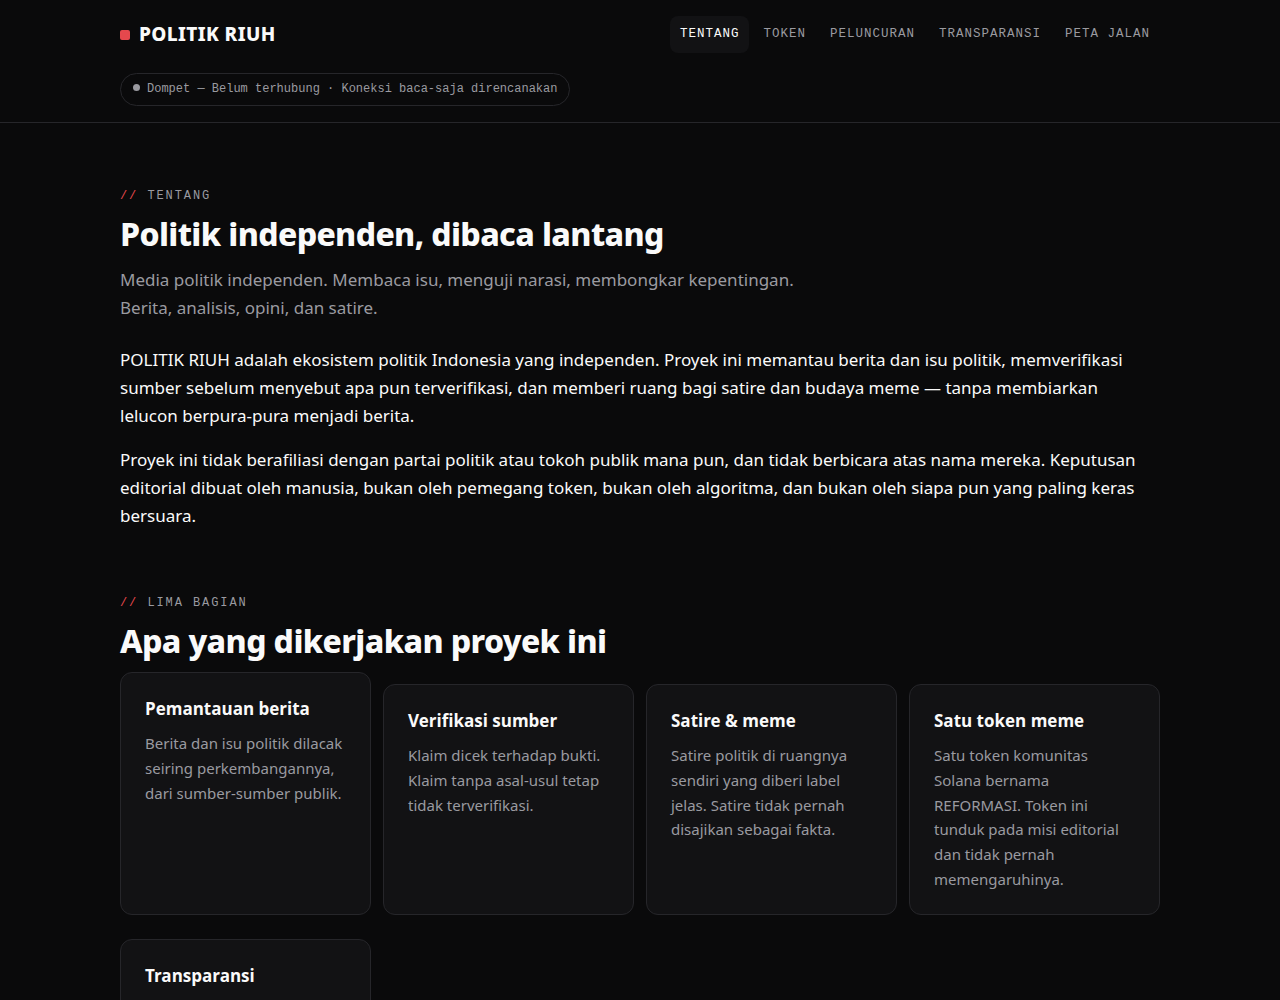
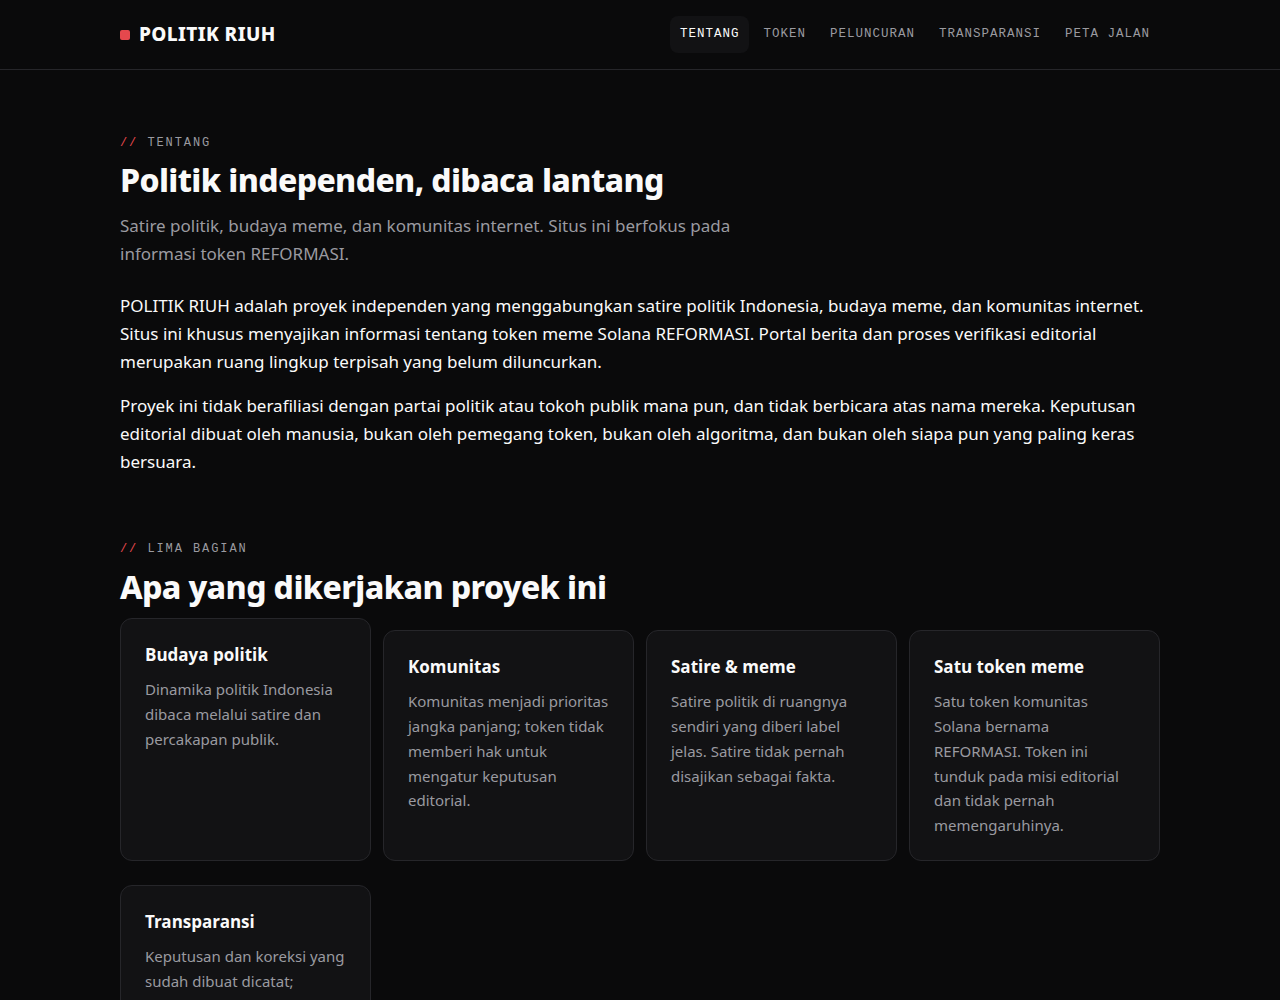
fix(token-site): harden test harness against false passes + fresh evidence (PR-013)
- checks.sh: dynamic free port, readiness polling (15s timeout),
  spawned-server PID verified to own the listener via ss, per-route
  expected-content assertions (not HTTP 200 alone); negative regressions
  for .wallet-status, founder name, 0,02 SOL estimate, present-tense
  newsroom claims, and Gate 01 scope; contrast labelled five-pair
  palette spot-check, not a full WCAG audit
- screenshots.sh: dynamic port + listener verification, old target
  deleted before capture, Chrome exit code required 0, fresh non-empty
  file + PNG dimensions validated; mobile screenshots for all six routes
- nav-toggle-test.py: dynamic HTTP + CDP ports, listener verification,
  unique Chrome profile per run; fix ws frame-coalescing bug that
  discarded an already-arrived CDP response and hung until timeout
- evidence: 12 fresh screenshots (6 desktop + 6 mobile), 3 run logs,
  SHA256SUMS.txt sidecar; README tables + backlog PR-013 row updated
  (still IN REVIEW - NOT ACCEPTED, awaiting ChatGPT re-review)
- NOTE: non-deploy PR workflow .github/workflows/token-site-pr.yml is
  prepared in a separate local commit; its push is BLOCKED because the
  GitHub OAuth token lacks the 'workflow' scope (see that commit)

Evidence (2026-11-09, local): bash checks.sh exit 0; python3
nav-toggle-test.py exit 0 (3/3 runs); bash screenshots.sh exit 0 (12/12)

diff --git a/apps/token-site/nav-toggle-test.py b/apps/token-site/nav-toggle-test.py
@@ -1,23 +1,42 @@
 #!/usr/bin/env python3
 """Minimal CDP nav-toggle test for the token site (stdlib only, no deps).
-Starts a local server + headless Chrome, clicks the mobile nav toggle via
-Runtime.evaluate, and prints NAV-OPEN / ARIA / LABEL. Exit 0 on pass.
-Usage: python3 nav-toggle-test.py [url]  (default http://127.0.0.1:8000/index.html)
+Starts a local server + headless Chrome on dynamically allocated free ports,
+verifies the spawned server owns its listener and serves the expected page,
+clicks the mobile nav toggle via Runtime.evaluate, and prints NAV-OPEN /
+ARIA / LABEL. Exit 0 on pass.
+Usage: python3 nav-toggle-test.py [url]  (default http://127.0.0.1:<free-port>/index.html)
 """
-import base64, hashlib, json, os, socket, struct, subprocess, sys, time, urllib.request
+import base64, hashlib, json, os, re, shutil, socket, struct, subprocess, sys, tempfile, time, urllib.request
 
-URL = sys.argv[1] if len(sys.argv) > 1 else "http://127.0.0.1:8000/index.html"
+def free_port():
+    s = socket.socket(); s.bind(("127.0.0.1", 0))
+    port = s.getsockname()[1]; s.close(); return port
+
+def listener_pid(port):
+    """PID owning the 127.0.0.1:port listener, via `ss` (None if unavailable)."""
+    try:
+        out = subprocess.run(["ss", "-ltnpH", f"sport = :{port}"],
+                             capture_output=True, text=True, timeout=10).stdout
+    except Exception:
+        return None
+    m = re.search(r"pid=(\d+)", out)
+    return int(m.group(1)) if m else None
+
 CHROME = os.environ.get("CHROME", os.path.expanduser("~/chrome-extract/opt/google/chrome/chrome"))
-PORT = 9222
+HTTP_PORT = free_port()
+CDP_PORT = free_port()
+URL = sys.argv[1] if len(sys.argv) > 1 else f"http://127.0.0.1:{HTTP_PORT}/index.html"
+
+_WS_LEFTOVER = {}
 
 def ws_connect(ws_url):
-    # ws://127.0.0.1:9222/devtools/page/<id>
+    # ws://127.0.0.1:<cdp-port>/devtools/page/<id>
     assert ws_url.startswith("ws://")
     rest = ws_url[5:]
     hostport, path = rest.split("/", 1)
     host, port = hostport.split(":")
     key = base64.b64encode(os.urandom(16)).decode()
-    s = socket.create_connection((host, int(port)), timeout=10)
+    s = socket.create_connection((host, int(port)), timeout=30)
     req = (f"GET /{path} HTTP/1.1\r\nHost: {hostport}\r\nUpgrade: websocket\r\n"
            f"Connection: Upgrade\r\nSec-WebSocket-Key: {key}\r\nSec-WebSocket-Version: 13\r\n\r\n")
     s.sendall(req.encode())
@@ -25,6 +44,10 @@ def ws_connect(ws_url):
     while b"\r\n\r\n" not in buf:
         buf += s.recv(4096)
     assert b"101" in buf.split(b"\r\n")[0], buf[:200]
+    # Keep any bytes already received past the HTTP headers: the first
+    # WebSocket frame may arrive coalesced with the handshake response,
+    # and dropping it would hang the first CDP call until socket timeout.
+    _WS_LEFTOVER[id(s)] = buf.split(b"\r\n\r\n", 1)[1]
     return s
 
 def ws_send(s, text):
@@ -43,7 +66,7 @@ def ws_send(s, text):
     s.sendall(bytes(header) + masked)
 
 def ws_recv_msg(s):
-    data = b""
+    data = _WS_LEFTOVER.pop(id(s), b"")
     while True:
         # read 2-byte header
         while len(data) < 2:
@@ -65,7 +88,13 @@ def ws_recv_msg(s):
             s.sendall(bytes([0x8A, 0x80]) + os.urandom(4))
             continue
         if op == 1:
+            # Preserve any trailing bytes: Chrome may coalesce several
+            # frames into one TCP segment, and the next message is already
+            # in `data`. Dropping it would hang the next recv until timeout.
+            _WS_LEFTOVER[id(s)] = data
             return payload.decode()
+        if op == 8:
+            raise ConnectionError("ws closed by peer")
         if op == 0:
             continue
 
@@ -77,16 +106,37 @@ def cdp(s, mid, method, params=None):
             if "error" in msg: raise RuntimeError(msg["error"])
             return msg.get("result", {})
 
-server = subprocess.Popen([sys.executable, "-m", "http.server", "8000", "--bind", "127.0.0.1"],
+server = subprocess.Popen([sys.executable, "-m", "http.server", str(HTTP_PORT), "--bind", "127.0.0.1"],
                           cwd=os.getcwd(), stdout=subprocess.DEVNULL, stderr=subprocess.DEVNULL)
+# Unique profile dir per run: a stale/shared default profile can make a
+# second Chrome instance attach to (or block on) another process.
+PROFILE_DIR = tempfile.mkdtemp(prefix="token-site-chrome-")
 chrome = subprocess.Popen([CHROME, "--headless=new", "--disable-gpu", "--no-sandbox",
-                           f"--remote-debugging-port={PORT}", "--window-size=390,844", URL],
+                           f"--user-data-dir={PROFILE_DIR}",
+                           f"--remote-debugging-port={CDP_PORT}", "--window-size=390,844", URL],
                           stdout=subprocess.DEVNULL, stderr=subprocess.DEVNULL)
 try:
+    # Readiness polling with timeout (15 s) + content check: the server must
+    # answer with OUR page, not just any HTTP 200 on a colliding port.
+    ready = False
+    for _ in range(30):
+        try:
+            with urllib.request.urlopen(f"http://127.0.0.1:{HTTP_PORT}/index.html", timeout=2) as r:
+                if r.status == 200 and b"REFORMASI" in r.read():
+                    ready = True; break
+        except Exception:
+            time.sleep(0.5)
+    assert ready, f"server did not serve expected content on port {HTTP_PORT} within 15s"
+    owner = listener_pid(HTTP_PORT)
+    if owner is not None:
+        assert owner == server.pid, f"port {HTTP_PORT} owned by pid {owner}, not our server pid {server.pid}"
+        print(f"PASS: spawned server pid {server.pid} owns listener on 127.0.0.1:{HTTP_PORT} (CDP port {CDP_PORT})")
+    else:
+        print(f"INFO: 'ss' unavailable; listener ownership not verified (dynamic free port {HTTP_PORT} + content check still apply)")
     target = None
     for _ in range(30):
         try:
-            tabs = json.load(urllib.request.urlopen(f"http://127.0.0.1:{PORT}/json/list", timeout=2))
+            tabs = json.load(urllib.request.urlopen(f"http://127.0.0.1:{CDP_PORT}/json/list", timeout=2))
             target = next(t for t in tabs if t["type"] == "page")
             break
         except Exception:
@@ -115,3 +165,8 @@ try:
     sys.exit(0 if ok else 1)
 finally:
     chrome.terminate(); server.terminate()
+    try:
+        chrome.wait(timeout=10); server.wait(timeout=10)
+    except subprocess.TimeoutExpired:
+        chrome.kill(); server.kill()
+    shutil.rmtree(PROFILE_DIR, ignore_errors=True)

diff --git a/apps/token-site/README.md b/apps/token-site/README.md
@@ -48,20 +48,24 @@ python3 nav-toggle-test.py  # exit 0 = toggle navigasi berfungsi
 
 | Check | Hasil |
 |---|---|
-| Route smoke test (`curl`, server lokal) | **8/8 HTTP 200**: `index/about/token/launch/transparency/roadmap.html`, `styles.css`, `main.js` |
+| Route smoke test (`curl`, server lokal) | **8/8 HTTP 200 + konten yang diharapkan per route**: `index/about/token/launch/transparency/roadmap.html`, `styles.css`, `main.js` — server memakai port dinamis yang dialokasikan bebas, readiness polling 15 detik, dan PID server terverifikasi memiliki listener (bukan port tetap 8000) |
 | HTML parse (python `html.parser`) | **6/6 halaman, tanpa error**; `lang="id"`; tepat satu `<h1>` per halaman; landmark `header/nav/main/footer` di setiap halaman; tanpa ID duplikat |
 | Tautan internal | Semua target `href`/`src` resolve di disk (diperiksa per halaman) |
 | Disiplin salinan | Tanpa nama kandidat lama (NENGOK/GORENG/DER); tanpa sisa salinan Inggris yang menghadap peserta; identitas REFORMASI ada; status "Belum diluncurkan" ada; `launch.html` menyatakan whitelist belum dibuka |
+| Regresi negatif (PR-013) | **Tidak ada**: tanpa elemen `.wallet-status` / frasa "Koneksi baca-saja direncanakan", tanpa nama personal founder di salinan publik, tanpa estimasi "0,02 SOL", tanpa klaim newsroom present-tense, Gate 01 hanya "Nama token disetujui" |
 | Form / fetch / storage / dompet | **Tidak ada**: tanpa `<form>`, `fetch()`/XHR, `localStorage`, kode wallet/signing, atau pola secret di source situs |
 | Sintaks JS | `node --check main.js` — lolos |
 | Kontras (spot-check lima pasangan palet) | Teks redup di bg **7,07:1**; headline **18,96:1**; aksen merah di bg **5,06:1**; tombol utama putih di `#C93338` **5,23:1**; hover **5,79:1** — lima pasangan yang diuji lolos AA untuk teks normal (4,5:1); ini bukan audit semua kombinasi warna halaman |
-| Uji fungsional nav toggle (headless Chrome via CDP, lebar 390px) | `NAV-OPEN=true ARIA=true LABEL=Tutup menu` — lolos |
-| Screenshot (headless Chrome 157) | `evidence/landing-desktop.png` (1280×2600 full page), `evidence/landing-mobile.png` (390×3800 full page), `evidence/{about,token,launch,transparency,roadmap}-desktop.png` (1280×1000 viewport) — dicek visual: landing desktop + mobile, token, launch, roadmap tampil benar |
+| Uji fungsional nav toggle (headless Chrome via CDP, lebar 390px) | `NAV-OPEN=true ARIA=true LABEL=Tutup menu` — lolos 3/3 run; port HTTP + CDP dinamis, kepemilikan listener terverifikasi, profil Chrome unik per run |
+| Screenshot (headless Chrome 157) | **12/12**: `evidence/{landing,about,token,launch,transparency,roadmap}-{desktop,mobile}.png` — desktop 1280×2600 (landing) / 1280×1000 (lainnya), mobile 390×3800 (landing) / 390×3000 (lainnya); target lama dihapus sebelum capture, exit code Chrome wajib 0, file segar non-empty, dimensi PNG divalidasi — dicek visual: landing desktop + mobile dan launch mobile tampil benar |
+| Validasi PR (GitHub Actions, non-deploy) | Workflow `.github/workflows/token-site-pr.yml` menjalankan `checks.sh`, `nav-toggle-test.py`, dan `screenshots.sh` di setiap PR yang menyentuh `apps/token-site/`; tanpa job deploy, tanpa Pages |
+| Sidecar bukti | `evidence/SHA256SUMS.txt` — hash SHA-256 untuk 12 screenshot, 3 log run, dan 3 script checks |
 
 ### Koreksi dari screenshot dan checks PR-013
 
 1. **Angka kontras tombol utama di README Fase 1 salah hitung.** Nilai yang tercatat (5,01:1 dan 5,55:1) tidak cocok dengan perhitungan ulang dari palet CSS; nilai yang benar adalah **5,23:1** dan **5,79:1** (keduanya tetap lolos AA). Tabel di atas memakai nilai yang sudah dikoreksi; `checks.sh` menghitung ulang rasio ini setiap kali dijalankan.
 2. **Pola pemindai secret `sk-` sempat false positive** pada `risk-heading` (mengandung substring `sk-`). Pola diperketat menjadi `sk-` + 20+ karakter alfanumerik di `checks.sh`.
+3. **Uji nav-toggle sempat false fail (timeout CDP) di 2026-11-09.** Penyebab: `ws_recv_msg` membuang sisa byte dalam satu segmen TCP ketika Chrome menggabungkan beberapa frame WebSocket (event + respons) — frame respons yang sudah tiba ikut terbuang, lalu recv berikutnya menunggu sampai timeout. Diperbaiki: sisa byte disimpan antar panggilan (juga untuk handshake). Uji kini lolos 3/3 run berurutan.
 
 ### Bug yang ditemukan screenshot dan diperbaiki (Fase 1)
 
@@ -83,7 +87,7 @@ python3 nav-toggle-test.py  # exit 0 = toggle navigasi berfungsi
 
 ## Keterbatasan yang diketahui
 
-- **Tanpa koneksi dompet.** Ditunda sesuai `docs/frontend-stack-decision.md` §2 (opsional di spec; menambah package wallet-adapter akan memperkenalkan dependensi untuk fitur opsional). Header hanya menampilkan status sebagai teks.
+- **Tanpa koneksi dompet.** Ditunda sesuai `docs/frontend-stack-decision.md` §2 (opsional di spec; menambah package wallet-adapter akan memperkenalkan dependensi untuk fitur opsional). Tidak ada elemen status dompet di header atau di halaman mana pun (dihapus PR-013; `checks.sh` menegaskan ketidakhadirannya).
 - **Tanpa backend, tanpa form, tanpa analitik.** Kanal kontak / pelaporan belum dikonfigurasi (dinyatakan sebagai teks biasa di footer).
 - **Fakta token yang masih menunggu keputusan founder:** pemeriksaan kompatibilitas simbol, suplai (konflik 1B vs 10B), desimal, alokasi, venue (D-04), tanggal peluncuran, domain resmi, dan tautan sosial terverifikasi.
 - **Whitelist belum diimplementasikan.** Situs saat ini tanpa form, backend, basis data, dasbor applicant, atau panel admin. Jangan kumpulkan data applicant nyata sampai arsitektur di `docs/whitelist-spec.md` disetujui.

diff --git a/docs/backlog.md b/docs/backlog.md
@@ -1,7 +1,7 @@
 # POLITIK RIUH — Phase 1 Development Backlog
 
 - **Date:** 2026-11-09
-- **Status:** Active. PR-001, PR-012 and PR-013 are complete; PR-014 ADR submitted as PR #5, awaiting ChatGPT review and founder provider decisions.
+- **Status:** Active. PR-001 and PR-012 are complete; PR-013 is **IN REVIEW — NOT ACCEPTED** (PR #4, awaiting ChatGPT re-review); PR-014 ADR submitted as PR #5, awaiting ChatGPT review and founder provider decisions.
 - **Owners (proposed):** Rama = final decisions; ChatGPT = architecture/audit; Muse = implementation/docs.
 - **Rule:** no item is "done" without evidence in this repo (commit + file, test log where applicable). No fabricated results.
 
@@ -19,7 +19,7 @@
 | PR-010 | Security review by ChatGPT (ingestor SSRF guard, auth model, secrets policy) | ChatGPT | TODO | Written review in repo; findings tracked as issues/items, not just comments | PR-004 |
 | PR-011 | Threat model: impersonation (fake token, fake accounts, fake news sites) | Muse + ChatGPT | TODO | `docs/risks.md` § impersonation completed with detection + response plan | PR-009 |
 | PR-012 | Token launch website Phase 1 (static site: landing + About/Token/Launch/Transparency/Roadmap) | Muse | **DONE** (2026-11-09 ~02:35 WIB) | `apps/token-site/` 16 files, 6 routes, zero-dep static per `docs/frontend-stack-decision.md`; checks: routes 8/8 HTTP 200, HTML 6/6, contrast AA pass, screenshots in `apps/token-site/evidence/`; commits `15b3b6f`, `91cdf4a`, `63757c9`; facts discipline kept (supply shown proposed with NO number — D-05a still open) | Website handoff (ChatGPT 02:16 WIB) |
-| PR-013 | Review and prepare token-site for public preview | Muse + ChatGPT | **IN REVIEW — NOT ACCEPTED** (PR #4) | Before acceptance: remove wallet-status from all six routes; remove current-tense newsroom capability claims; remove unverified 0.02 SOL public estimate; narrow Gate 01 to approved token name only; remove founder's personal name from public copy; harden checks against false passes (wallet regression, dynamic/verified server port, readiness/content assertions, truthful contrast scope); make nav test ports isolated; require fresh non-empty screenshots and non-zero Chrome failure handling; attach fresh command output and evidence. No deployment. | PR-012, owner decisions in issue #1 |
+| PR-013 | Review and prepare token-site for public preview | Muse + ChatGPT | **IN REVIEW — NOT ACCEPTED** (PR #4; harness + copy fixes submitted 2026-11-09, awaiting ChatGPT re-review) | Copy fixes by ChatGPT (commits `db8a8d2`, `bbe7e81`, `926ccad`) verified in source: wallet-status removed from all six routes, no present-tense newsroom claims, no 0,02 SOL estimate, Gate 01 narrowed to token name only, no founder name in public copy. Harness hardened by Muse: dynamic free ports + listener-PID verification + readiness polling + per-route content assertions in `checks.sh`/`screenshots.sh`/`nav-toggle-test.py`; negative regression assertions (wallet-status, founder name, 0,02 SOL, newsroom claims, Gate 01); Chrome exit-code + fresh-file + PNG-dimension validation; mobile screenshots for all six routes; non-deploy GitHub Actions PR workflow `.github/workflows/token-site-pr.yml`; fresh evidence `bash checks.sh` exit 0, `python3 nav-toggle-test.py` exit 0 (3/3 runs), `bash screenshots.sh` exit 0 (12/12), hashes in `apps/token-site/evidence/SHA256SUMS.txt`. No deployment. | PR-012, owner decisions in issue #1 |
 | PR-014 | REFORMASI whitelist architecture and secure participation flow | Muse (design) + ChatGPT (security review) | **ADR SUBMITTED (PR #5, 2026-11-09) — AWAITING REVIEW + FOUNDER DECISIONS** | `docs/whitelist-architecture.md`: 3 options compared (Supabase/VPS/Workers+D1), data-flow, threat model, cost, verification matrix, enforcement spec; recommendation Supabase Pro; no real applicant data or live registration before Rama approval | `docs/whitelist-spec.md`, Rama decisions |
 
 ## Notes
